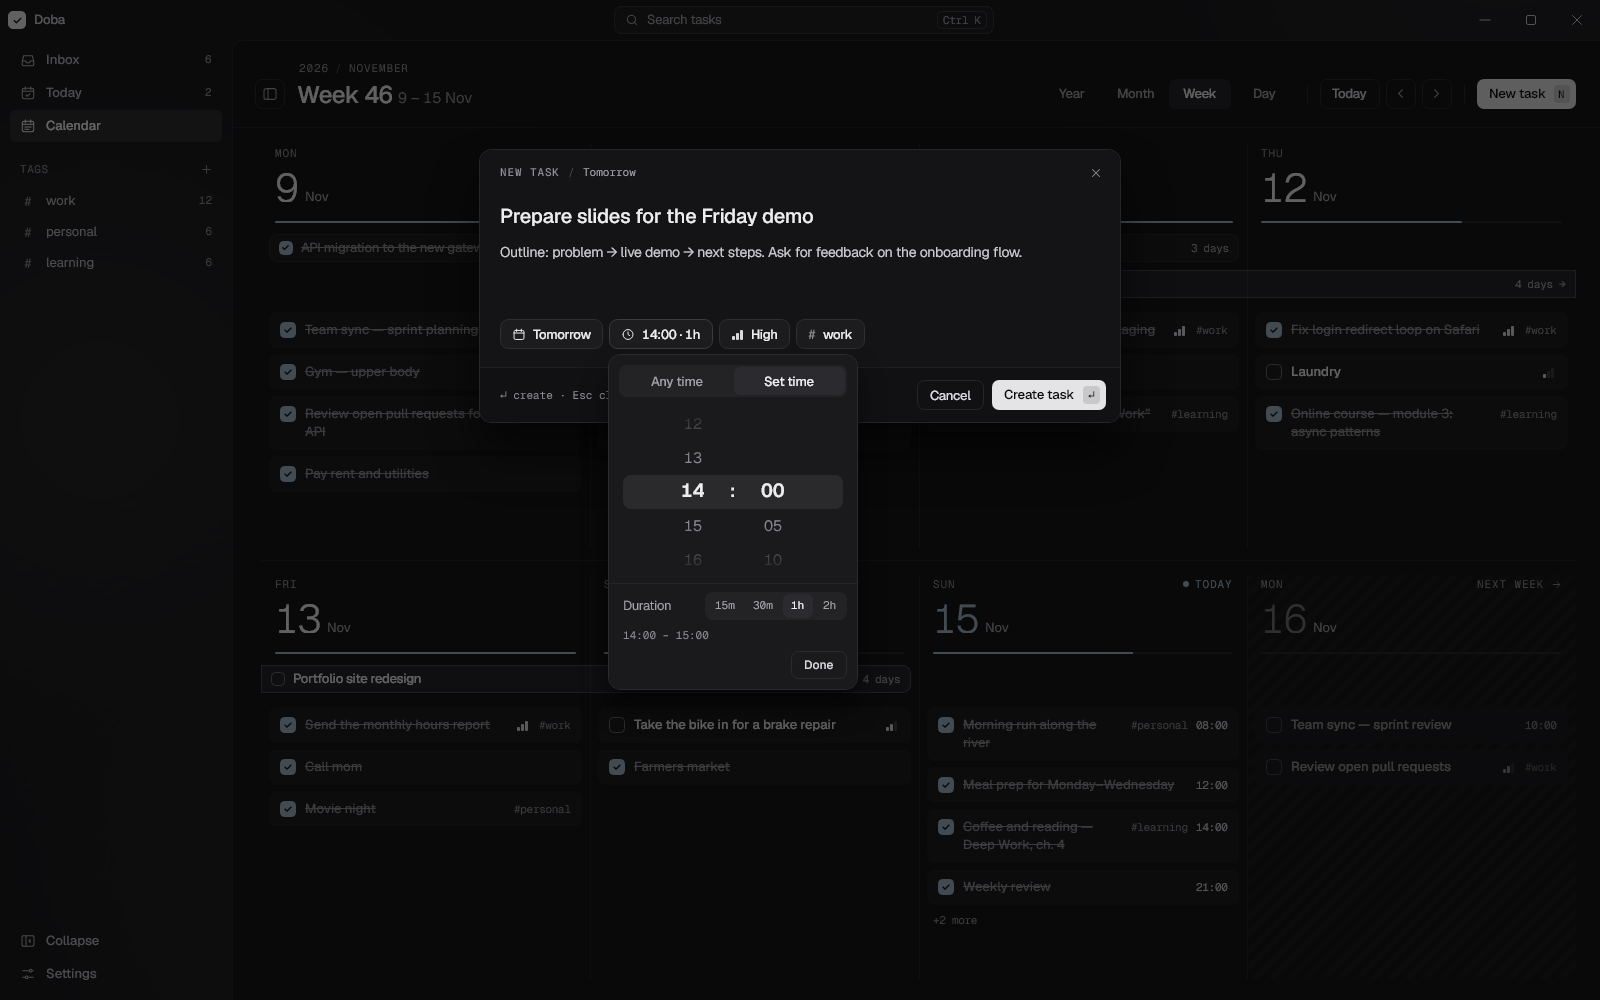
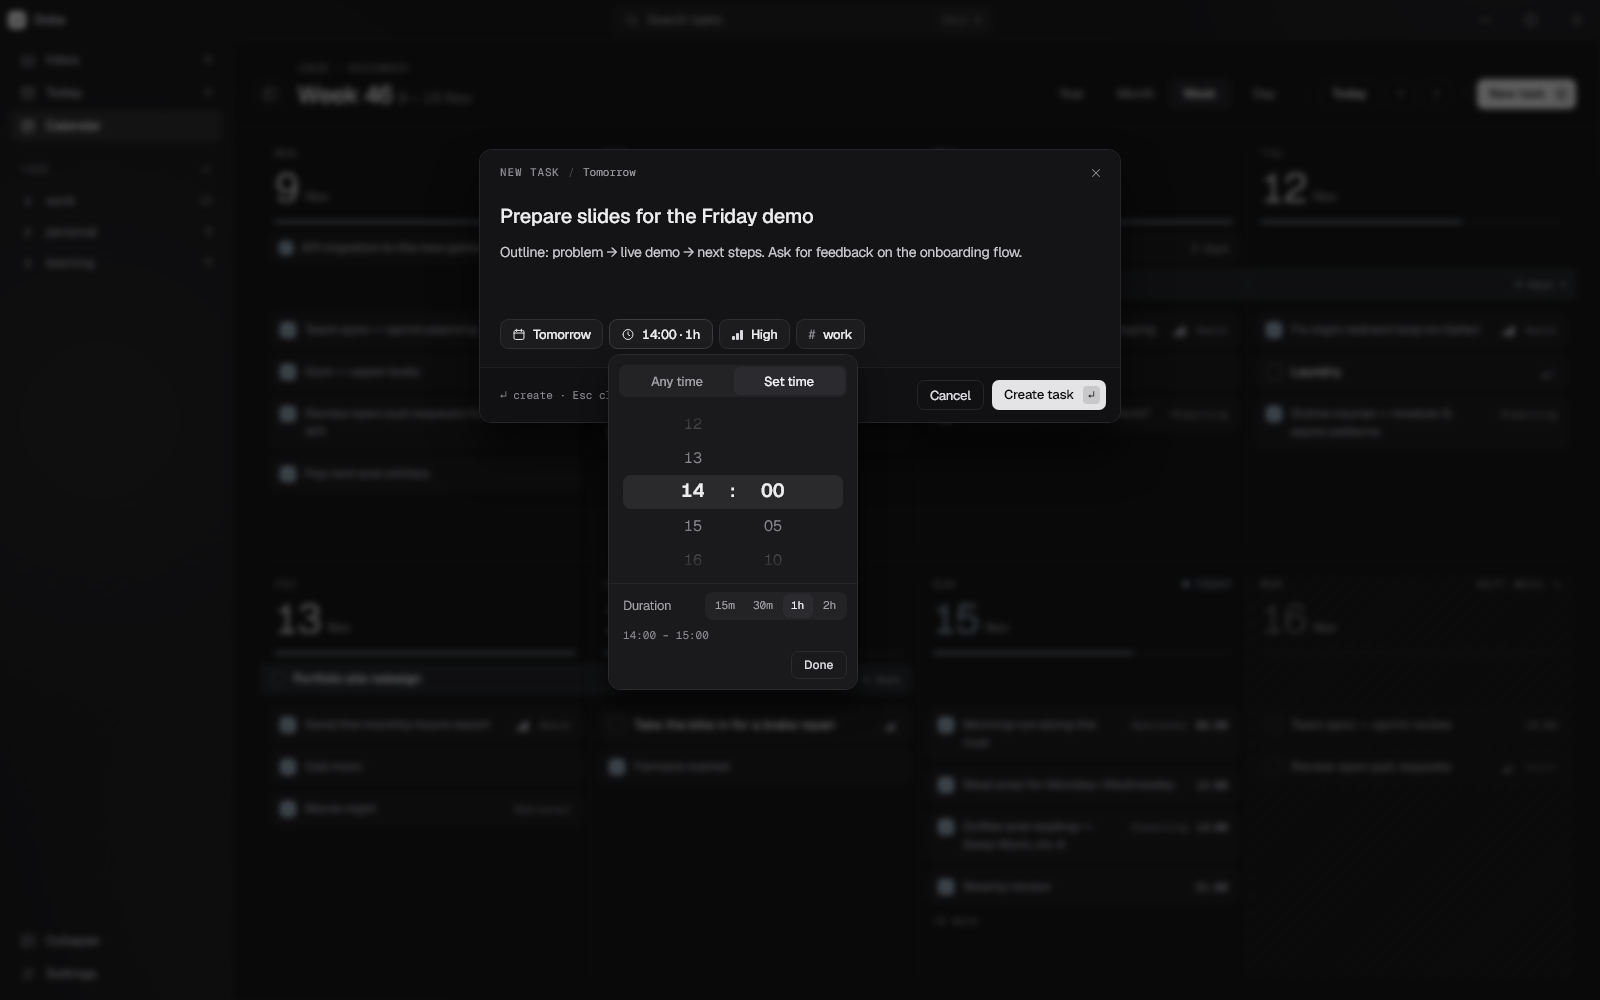
Screenshots with the blurred overlay backdrop; decisions and progress after Batch 3

diff --git a/docs/PROGRESS.md b/docs/PROGRESS.md
@@ -32,11 +32,11 @@ fresh reviewer agent, with no literal colours/durations outside tokens and `Moti
 ## Phase 2 — Screens
 
 - [x] **P2.1 Inbox** _(accepted 2026-11-18: `inbox.png` matches the reference; virtualised: 5k undated → <200 realised rows; Space completes the focused row)_ — two columns, groups, rows (checkbox, priority, title, tag, meta), Add task row, virtualised list. Screenshot `inbox.png`.
-- [ ] **P2.2 Today** _(wired and reviewed; not yet accepted: done titles in list rows and schedule blocks still use the fractional strike, and the time range of a truncated block is 3 px left — in the polish pass)_ — summary + progress, groups incl. Overdue with "→ Today", In progress, Scheduled, Anytime, Done; schedule timeline with now-line. Screenshot `today.png`.
+- [x] **P2.2 Today** _(accepted 2026-11-18 after the polish pass: crisp 1 px strikes in rows and schedule blocks, truncated block range flush right; fresh acceptance review found nothing remaining)_ — summary + progress, groups incl. Overdue with "→ Today", In progress, Scheduled, Anytime, Done; schedule timeline with now-line. Screenshot `today.png`.
 - [x] **P2.3 Week** _(accepted 2026-11-18: `week.png` track geometry, bars, cards and "+N more" on the reference pixels; titles break between words at 1100×700)_ — two rows of day cells, lanes of multi-day bars, cards, "+N more" from measured size, next-week preview, per-day progress. Screenshot `week.png`.
 - [x] **P2.4 Month** _(accepted 2026-11-18: week rules, columns, bars, chips and "+N more" identical to the reference geometry; capacity follows the measured height)_ — weekday header, week rows with W-numbers, day cells, span bars (2 lanes), "+N more". Screenshot `month.png`.
 - [x] **P2.5 Year** _(accepted 2026-11-18: `year.png` track edges and header stacks match the reference)_ — 4×3 months with stats, progress, key items, "+N more". Screenshot `year.png`.
-- [ ] **P2.6 Day** _(implemented and reviewed; not yet accepted: schedule strike and truncated-block range, shared with Today — in the polish pass)_ — spans, task cards with meta, Add task, timeline. Screenshot `day.png`.
+- [x] **P2.6 Day** _(accepted 2026-11-18 after the polish pass: header, cards, spans and schedule on the reference rows; nothing remaining)_ — spans, task cards with meta, Add task, timeline. Screenshot `day.png`.
 - [x] **P2.7a Time wheel** _(accepted 2026-11-18: 652-line test suite incl. settle commit, snap, clamp, keys, animations-off; wheel area matches `dialog-time.png` pixel for pixel)_ — `Controls/TimeWheel`: 34 px rows, 5 visible, snap to centre, selection band, fade mask, commit after 120 ms of stillness, click scrolls smoothly, instant positioning on open.
 - [x] **P2.7b Task dialog** _(accepted 2026-11-18: fresh review accepted; `dialog-date|time|priority|tag.png` match the references on panel, pills, popovers, calendar cells and wheel; leftovers are 1–3 px text-width rounding)_ — title, notes, Date/Time/Priority/Tag pills and popovers (mini calendar, quick options, lasts N days; time wheel, duration; priority list; tag list), Enter/Esc/Delete rules, Create disabled until a title. Screenshots `dialog-date.png`, `dialog-time.png`, `dialog-priority.png`, `dialog-tag.png`.
 - [x] **P2.8 Settings** _(accepted 2026-11-18: all six `settings-*.png` accepted; column 261–1040, switches pixel-identical; export/import round trip tested)_ — settings sidebar, six tabs with live controls bound to `ISettingsService`. Screenshots `settings-*.png` (6).
@@ -44,20 +44,20 @@ fresh reviewer agent, with no literal colours/durations outside tokens and `Moti
 
 ## Phase 3 — Motion
 
-- [ ] **P3.1 Transitions** — zoom in/out from click point, period slides, section exit+enter with direction, settings in/out (+ sidebar slide), title fade, launch, sidebar collapse; cancellation on rapid clicks.
-- [ ] **P3.2 Micro-interactions and overlays** — checkbox/strike/dim, new-row entrance, tag-filter dim, progress scale, toggles, segments, hovers, dialog open/close (focus return), popovers, wheel text, OS animations-off.
+- [ ] **P3.1 Transitions** _(implemented: `Motion/ContentTransitions` + `SidebarCollapse` + `MotionSync`, 20+ tests; review findings fixed; awaiting the final independent motion review)_ — zoom in/out from click point, period slides, section exit+enter with direction, settings in/out (+ sidebar slide), title fade, launch, sidebar collapse; cancellation on rapid clicks.
+- [ ] **P3.2 Micro-interactions and overlays** _(implemented: every table row audited and tested, overlay open/close motion, backdrop blur; review findings fixed; awaiting the final independent motion review)_ — checkbox/strike/dim, new-row entrance, tag-filter dim, progress scale, toggles, segments, hovers, dialog open/close (focus return), popovers, wheel text, OS animations-off.
 - [ ] **P3.3 Motion acceptance** — every item of the motion-spec checklist covered by a test or recorded review (`docs/MOTION-REVIEW.md`).
 
 ## Phase 4 — Platform and remaining features
 
 - [x] **P4.1 Windows platform** _(done 2026-11-18: `AppLifecycle` wires tray, close-to-tray, hotkey, autostart reconcile, Mica/acrylic, OS animations; fresh review accepted; `Doba.exe --selfcheck` on the NativeAOT build: 9/9 checks pass on Windows 11; what only a person can check is listed under "Needs Windows verification")_ — tray (keep running in tray), autostart (HKCU Run), global hotkey Ctrl+Alt+N, backdrop transparency (Mica/acrylic + tint from the transparency setting), OS animation setting, open folder, completion sound; no-op fallbacks.
 - [x] **P4.2 Data features** _(done 2026-11-18: flush on hide/quit/exit/session end, carry-over and daily backup after the first frame and on day change, settings survive a restart — all tested; a real AOT run on a temp data folder moved an overdue task to today and wrote the day's backup)_ — daily backup wiring, Export / Import (file pickers), Open folder, settings persistence wiring, carry-over at startup and midnight, midnight rollover.
-- [ ] **P4.3 Search palette** _(implemented; review found the panel ring/shadow clipped — fixed, re-check pending in the polish pass)_ — Ctrl K overlay in the dialog style, substring search, arrows + Enter opens the task. Screenshot `search.png`.
-- [ ] **P4.4 Keyboard** — N, Ctrl K, G I, G T, 1–4, ← →, Space on focused task, Esc; Tab order with visible focus everywhere.
+- [x] **P4.3 Search palette** _(accepted 2026-11-18: ring and shadow on all four sides, dialog-style rows and footer; `search.png` accepted against the dialog's visual language)_ — Ctrl K overlay in the dialog style, substring search, arrows + Enter opens the task. Screenshot `search.png`.
+- [x] **P4.4 Keyboard** _(accepted 2026-11-18: fresh review accepted; every shortcut tested through real headless key events incl. chord timing and the Ukrainian layout mapping; Tab walk on every screen and overlay with a visible focus ring)_ — N, Ctrl K, G I, G T, 1–4, ← →, Space on focused task, Esc; Tab order with visible focus everywhere.
 
 ## Phase 5 — Hardening
 
-- [ ] **P5.1 Performance** — `--perf` time-to-first-frame log, idle working-set measurement, Week-view frame budget check, Inbox virtualisation verified, numbers recorded in HANDOFF.
+- [ ] **P5.1 Performance** _(instrumented and measured with `scripts/perf.ps1` on the NativeAOT build, quiet machine: first frame rendered ~210 ms from process start for demo, 348-task and 10k-task databases, ~290 ms on a fresh folder; idle working set 109 MB (demo) / 129 MB (10k — above the 120 MB aim); Week scenario render p95 5.8 ms with 2–3 frames over 33 ms from blocking GCs; open: memory/GC tuning, then numbers into HANDOFF)_ — `--perf` time-to-first-frame log, idle working-set measurement, Week-view frame budget check, Inbox virtualisation verified, numbers recorded in HANDOFF.
 - [ ] **P5.2 AOT** — `dotnet publish -r win-x64` (CI) and `-r linux-x64` (local) with zero trim/AOT warnings.
 - [ ] **P5.3 CI** — GitHub Actions on `windows-latest`: build, test, publish NativeAOT win-x64, upload artifact, print perf; green. Owner's instruction (2026-11-18): no extra Actions runs — everything is verified locally on Windows; the only run is the one the final PR into `main` starts.
 - [ ] **P5.4 Independent review** — fresh reviewer agents: code review of the whole solution and a final visual review of all screenshots; findings fixed.

diff --git a/docs/DECISIONS.md b/docs/DECISIONS.md
@@ -95,4 +95,16 @@ One line per decision, newest last. Format: **topic** — decision (reason).
 - **Row-dependent sub-pixel offsets in the references** (row-1 Week priority glyphs, Year row-1 item titles, the Day card-5 meta row, Today rows that are 1 px off as a whole) come from Chromium snapping fractional row offsets; the same element matches in the other rows, so they fall under "Whole-pixel layout" and are not fudged per row.
 - **Calendar bars** — the 1 px border stands in for the CSS inset ring, so each bar's padding is the design's minus 1, and the fill is painted under the ring.
 - **New-row entrance expiry** stays a real-time dispatcher timer (the injected clock is fixed in demo and tests, so it cannot measure the 360 ms window).
+- **Content transitions** animate the screen host and the page h1 (title + subtitle) and, on Settings in/out, the sidebar that appears; breadcrumbs do not move (as in the prototype). Zoom origin is the click point when there is one, otherwise 50 % 40 %; Settings in/out use 50 % 30 %. Launch animates only the content area and starts at window-open without delaying the first frame. A new step invokes any pending swap at once and cancels what is running. The content area is clipped under the header (the prototype's `overflow: hidden`).
+- **Sidebar collapse** — the sidebar column and the main panel's inset are laid out separately and each changes width once per toggle; the main panel slides 176 px by a composition translation for 340 ms ease-out. Measured: at most one Week re-projection and one main-panel layout per toggle (animating the width would re-lay out every frame). Cost: the content reflows once (start of a collapse, end of an expand) instead of continuously.
+- **OS animation setting at run time** — `Motion.SystemAnimationsChanged` + `MotionSync` zero the XAML transition durations of live windows when animations go off and restore them when they come back; Animator-driven motion follows at once. A transition built while animations were off stays instant until re-templated or restart (it errs only towards no animation).
+- **Overlay motion** — shade in 220 ms / out 150 ms, window in 320 ms (opacity, translateY 10→0, scale 0.97→1) / out 150 ms, scaled around its real centre. Focus parks on the panel at once (keys never reach the page under the shade) and moves to the first input after the entrance; text typed during the entrance is buffered and delivered to that input. An overlay replacing the open one (search hit → dialog) keeps the shade and blur; only the new panel plays the entrance.
+- **Backdrop blur behind overlays** — reproduced (replaces "the dialog backdrop's 3 px blur is not reproduced"): a `BlurEffect` on the window content behind the overlay, σ = 3 px (`Size.Overlay.BackdropBlur`), its strength following the shade's opacity during the fades; nothing is redrawn while the shade is at rest. Cost measured on the CPU raster only (about 3× per frame during the two fades).
+- **Small motion choices** — schedule-block and Month-bar titles fade their colour over 300 ms like every other title; duration segments use the spec's 200 ms (the prototype's CSS says 150 ms); the shade uses the app's ease-out curve.
+- **Keyboard matching** — shortcuts match the virtual key and fall back to the physical key under an IME, so N / G / I / T / K / digits work on the Ukrainian layout. Letters, digits and arrows act only with no modifier; Ctrl K needs exactly Ctrl; anything with Alt, Win or AltGr passes through.
+- **Keyboard scope** (replaces "Shell keys") — N, G-chords, digits and arrows are text inside a text box and are ignored while an overlay is open; Ctrl K also works from a text box but not while an overlay is open. The G chord stays armed for 1500 ms. G I / G T use the section transition, also from Settings. 1–4 zoom the calendar at the current anchor, also from Inbox / Today / Settings. ← / → step the period in calendar views only and never while focus is in a text box, list box, slider, scrollbar or the time wheel. Esc closes a popover, then the overlay; otherwise nothing (it does not leave Settings). Arrows repeat; N, G, digits, Ctrl K, Esc and Space act once per press. The character of a key that fired a shortcut is never typed.
+- **Tab order** — title-bar search, sidebar, page header (toggle, breadcrumbs, view switch, Today, ‹ ›, New task), content. Caption buttons are not tab stops (Windows convention). Week: day headers, bars, then cards column by column (checkbox, title, priority). Tab cycles inside an overlay; with a popover open it goes pill → popover → next pill. After a navigation focus stays on a control that still exists, otherwise moves to the content area. Keyboard focus in a scrolling list scrolls the neighbours into view, so Tab never skips virtualised rows.
+- **`--perf`** — `frame-rendered-ms` is when the render thread finished the first frame with data; the time before `Main` comes from `Process.StartTime` (wall clock, diagnostic only). `--perf-idle-seconds N` and `--perf-scenario week` end the app when done. Frame statistics come from render-thread and UI-thread animation-frame callbacks — proxies, not GPU present times.
+- **Database preload** — `Program.Main` opens, loads and indexes the database on a pool thread while Avalonia starts (never in demo or self-check).
+- **Lists** — Inbox and Today are virtualised; the Day list is bounded by one day's tasks and search by 50 hits, so neither is.
 - **Local runs never touch the real machine state** — tests and `--demo` use no-op platform services; the app is launched locally only with `--demo`, `--data <folder>` or `--selfcheck`.
